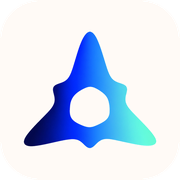
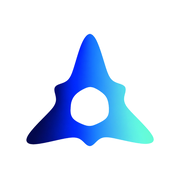
maj

diff --git a/src/old/actualites.html b/src/old/actualites.html
@@ -6,12 +6,12 @@
 <meta name="robots" content="noindex, nofollow">
 <title>Nos actualités &#183; archive DeeeMines</title>
 <style>
-  :root{--encre:#06065B;--doux:#5A5E8C;--papier:#FFFAF6;--filet:rgba(6,6,91,.12);--lien:#2B2BE8}
+  :root{--encre:#06065B;--doux:#5A5E8C;--papier:#FFFFFF;--filet:rgba(6,6,91,.12);--lien:#2B2BE8}
   *{box-sizing:border-box}
   body{margin:0;background:var(--papier);color:var(--encre);
     font:16px/1.64 "Inter",-apple-system,BlinkMacSystemFont,"Segoe UI",Helvetica,Arial,sans-serif}
   .p{max-width:730px;margin:0 auto;padding:clamp(34px,6vw,72px) 20px clamp(50px,7vw,90px)}
-  .bandeau{background:#F1EDE7;border-bottom:1px solid var(--filet);font-size:13.4px;color:var(--doux)}
+  .bandeau{background:#F4F5F8;border-bottom:1px solid var(--filet);font-size:13.4px;color:var(--doux)}
   .bandeau div{max-width:730px;margin:0 auto;padding:11px 20px}
   .bandeau a{color:var(--lien)}
   h1{font-size:clamp(26px,4vw,36px);line-height:1.12;letter-spacing:-.022em;margin:0 0 10px;font-weight:600}

diff --git a/src/old/nous-decouvrir.html b/src/old/nous-decouvrir.html
@@ -6,12 +6,12 @@
 <meta name="robots" content="noindex, nofollow">
 <title>Nous découvrir &#183; archive DeeeMines</title>
 <style>
-  :root{--encre:#06065B;--doux:#5A5E8C;--papier:#FFFAF6;--filet:rgba(6,6,91,.12);--lien:#2B2BE8}
+  :root{--encre:#06065B;--doux:#5A5E8C;--papier:#FFFFFF;--filet:rgba(6,6,91,.12);--lien:#2B2BE8}
   *{box-sizing:border-box}
   body{margin:0;background:var(--papier);color:var(--encre);
     font:16px/1.64 "Inter",-apple-system,BlinkMacSystemFont,"Segoe UI",Helvetica,Arial,sans-serif}
   .p{max-width:730px;margin:0 auto;padding:clamp(34px,6vw,72px) 20px clamp(50px,7vw,90px)}
-  .bandeau{background:#F1EDE7;border-bottom:1px solid var(--filet);font-size:13.4px;color:var(--doux)}
+  .bandeau{background:#F4F5F8;border-bottom:1px solid var(--filet);font-size:13.4px;color:var(--doux)}
   .bandeau div{max-width:730px;margin:0 auto;padding:11px 20px}
   .bandeau a{color:var(--lien)}
   h1{font-size:clamp(26px,4vw,36px);line-height:1.12;letter-spacing:-.022em;margin:0 0 10px;font-weight:600}

diff --git a/src/old/notre-solution.html b/src/old/notre-solution.html
@@ -6,12 +6,12 @@
 <meta name="robots" content="noindex, nofollow">
 <title>Notre solution &#183; archive DeeeMines</title>
 <style>
-  :root{--encre:#06065B;--doux:#5A5E8C;--papier:#FFFAF6;--filet:rgba(6,6,91,.12);--lien:#2B2BE8}
+  :root{--encre:#06065B;--doux:#5A5E8C;--papier:#FFFFFF;--filet:rgba(6,6,91,.12);--lien:#2B2BE8}
   *{box-sizing:border-box}
   body{margin:0;background:var(--papier);color:var(--encre);
     font:16px/1.64 "Inter",-apple-system,BlinkMacSystemFont,"Segoe UI",Helvetica,Arial,sans-serif}
   .p{max-width:730px;margin:0 auto;padding:clamp(34px,6vw,72px) 20px clamp(50px,7vw,90px)}
-  .bandeau{background:#F1EDE7;border-bottom:1px solid var(--filet);font-size:13.4px;color:var(--doux)}
+  .bandeau{background:#F4F5F8;border-bottom:1px solid var(--filet);font-size:13.4px;color:var(--doux)}
   .bandeau div{max-width:730px;margin:0 auto;padding:11px 20px}
   .bandeau a{color:var(--lien)}
   h1{font-size:clamp(26px,4vw,36px);line-height:1.12;letter-spacing:-.022em;margin:0 0 10px;font-weight:600}

diff --git a/src/old/l-antimoine.html b/src/old/l-antimoine.html
@@ -6,12 +6,12 @@
 <meta name="robots" content="noindex, nofollow">
 <title>L'antimoine ? &#183; archive DeeeMines</title>
 <style>
-  :root{--encre:#06065B;--doux:#5A5E8C;--papier:#FFFAF6;--filet:rgba(6,6,91,.12);--lien:#2B2BE8}
+  :root{--encre:#06065B;--doux:#5A5E8C;--papier:#FFFFFF;--filet:rgba(6,6,91,.12);--lien:#2B2BE8}
   *{box-sizing:border-box}
   body{margin:0;background:var(--papier);color:var(--encre);
     font:16px/1.64 "Inter",-apple-system,BlinkMacSystemFont,"Segoe UI",Helvetica,Arial,sans-serif}
   .p{max-width:730px;margin:0 auto;padding:clamp(34px,6vw,72px) 20px clamp(50px,7vw,90px)}
-  .bandeau{background:#F1EDE7;border-bottom:1px solid var(--filet);font-size:13.4px;color:var(--doux)}
+  .bandeau{background:#F4F5F8;border-bottom:1px solid var(--filet);font-size:13.4px;color:var(--doux)}
   .bandeau div{max-width:730px;margin:0 auto;padding:11px 20px}
   .bandeau a{color:var(--lien)}
   h1{font-size:clamp(26px,4vw,36px);line-height:1.12;letter-spacing:-.022em;margin:0 0 10px;font-weight:600}

diff --git a/src/old/accueil.html b/src/old/accueil.html
@@ -6,12 +6,12 @@
 <meta name="robots" content="noindex, nofollow">
 <title>Accueil &#183; archive DeeeMines</title>
 <style>
-  :root{--encre:#06065B;--doux:#5A5E8C;--papier:#FFFAF6;--filet:rgba(6,6,91,.12);--lien:#2B2BE8}
+  :root{--encre:#06065B;--doux:#5A5E8C;--papier:#FFFFFF;--filet:rgba(6,6,91,.12);--lien:#2B2BE8}
   *{box-sizing:border-box}
   body{margin:0;background:var(--papier);color:var(--encre);
     font:16px/1.64 "Inter",-apple-system,BlinkMacSystemFont,"Segoe UI",Helvetica,Arial,sans-serif}
   .p{max-width:730px;margin:0 auto;padding:clamp(34px,6vw,72px) 20px clamp(50px,7vw,90px)}
-  .bandeau{background:#F1EDE7;border-bottom:1px solid var(--filet);font-size:13.4px;color:var(--doux)}
+  .bandeau{background:#F4F5F8;border-bottom:1px solid var(--filet);font-size:13.4px;color:var(--doux)}
   .bandeau div{max-width:730px;margin:0 auto;padding:11px 20px}
   .bandeau a{color:var(--lien)}
   h1{font-size:clamp(26px,4vw,36px);line-height:1.12;letter-spacing:-.022em;margin:0 0 10px;font-weight:600}

diff --git a/src/old/index.html b/src/old/index.html
@@ -6,12 +6,12 @@
 <meta name="robots" content="noindex, nofollow">
 <title>Archive de l'ancien site</title>
 <style>
-  :root{--encre:#06065B;--doux:#5A5E8C;--papier:#FFFAF6;--filet:rgba(6,6,91,.12);--lien:#2B2BE8}
+  :root{--encre:#06065B;--doux:#5A5E8C;--papier:#FFFFFF;--filet:rgba(6,6,91,.12);--lien:#2B2BE8}
   *{box-sizing:border-box}
   body{margin:0;background:var(--papier);color:var(--encre);
     font:16px/1.64 "Inter",-apple-system,BlinkMacSystemFont,"Segoe UI",Helvetica,Arial,sans-serif}
   .p{max-width:730px;margin:0 auto;padding:clamp(34px,6vw,72px) 20px clamp(50px,7vw,90px)}
-  .bandeau{background:#F1EDE7;border-bottom:1px solid var(--filet);font-size:13.4px;color:var(--doux)}
+  .bandeau{background:#F4F5F8;border-bottom:1px solid var(--filet);font-size:13.4px;color:var(--doux)}
   .bandeau div{max-width:730px;margin:0 auto;padding:11px 20px}
   .bandeau a{color:var(--lien)}
   h1{font-size:clamp(26px,4vw,36px);line-height:1.12;letter-spacing:-.022em;margin:0 0 10px;font-weight:600}

diff --git a/src/admin/index.html b/src/admin/index.html
@@ -121,7 +121,7 @@
               ref: (el) => { this.cadre = el; },
               src: base + '?apercu=1',
               style: { width: '100%', height: '78vh', border: '0', display: 'block',
-                       background: '#FFFAF6' },
+                       background: '#FFFFFF' },
               title: 'Aperçu du site',
             });
           },
